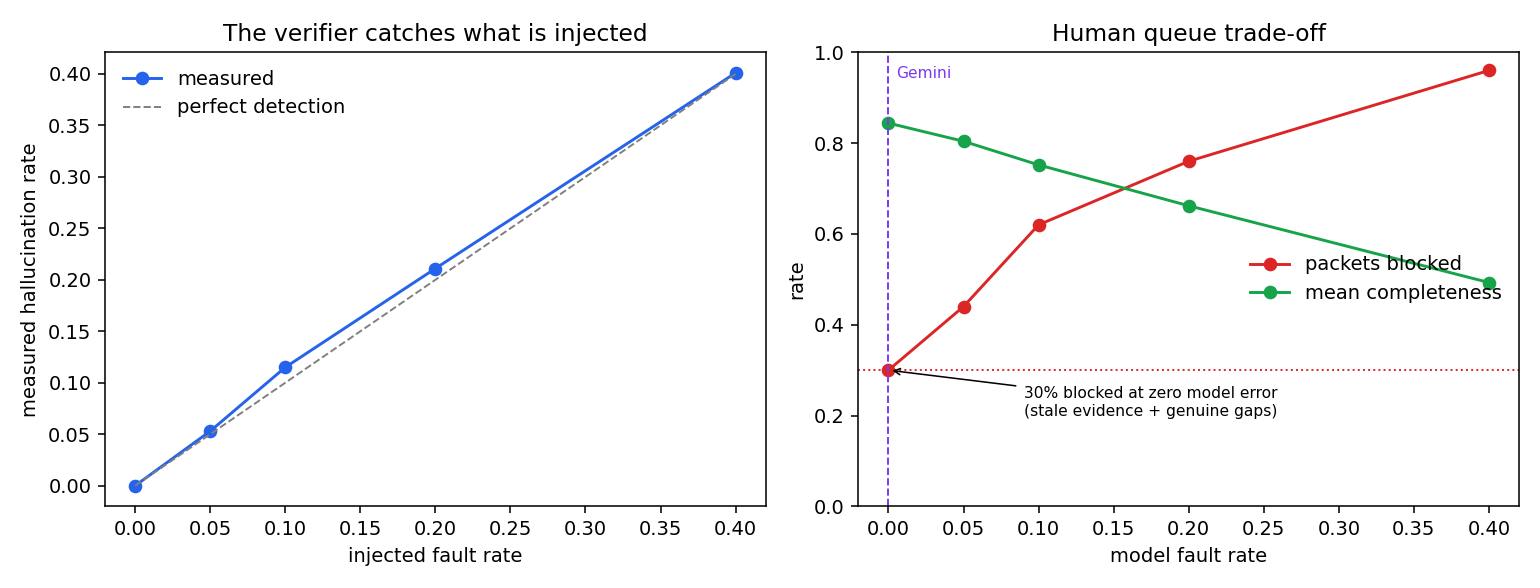
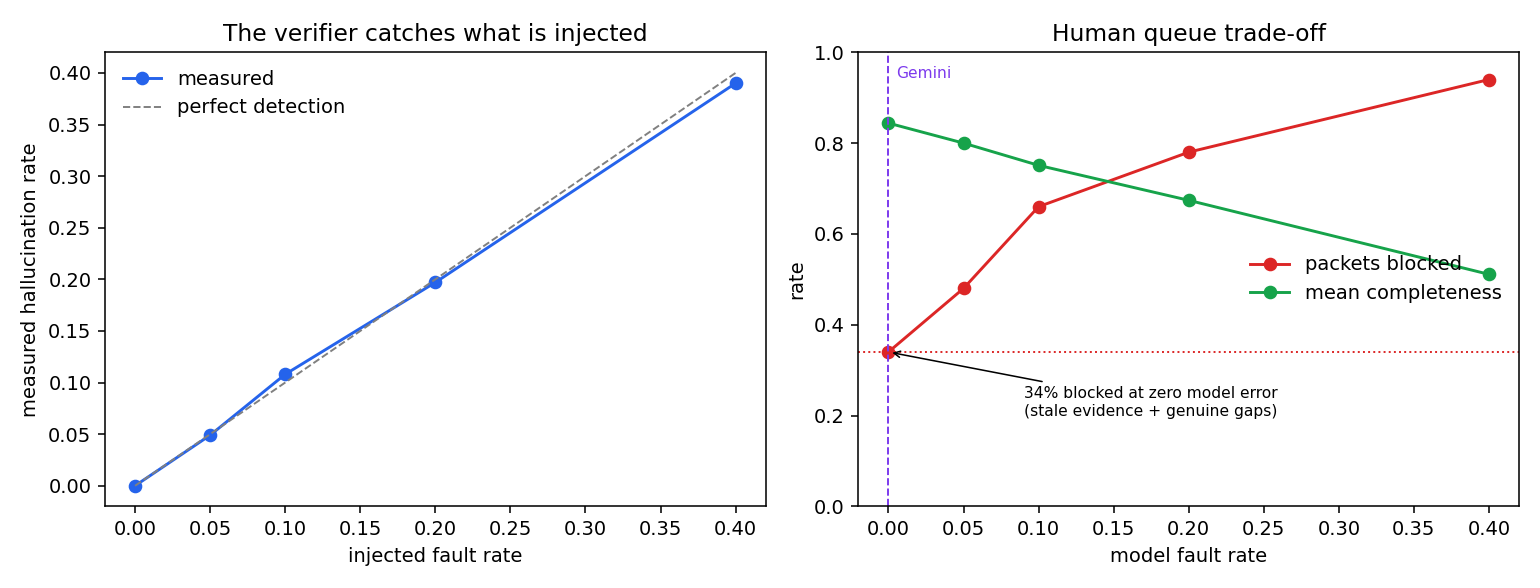
Rerun all sweeps against resampled amounts: net Rs 529,555, queue intercept 0.34, contest-all negative in 3 of 4

diff --git a/agent/queue_chart.py b/agent/queue_chart.py
@@ -23,9 +23,9 @@ import matplotlib.pyplot as plt
 HERE = os.path.dirname(os.path.abspath(__file__))
 
 injected     = [0.00, 0.05, 0.10, 0.20, 0.40]
-measured     = [0.000, 0.053, 0.115, 0.211, 0.401]
-blocked      = [0.30, 0.44, 0.62, 0.76, 0.96]
-completeness = [0.844, 0.804, 0.752, 0.662, 0.493]
+measured     = [0.000, 0.049, 0.108, 0.197, 0.390]
+blocked      = [0.34, 0.48, 0.66, 0.78, 0.94]
+completeness = [0.844, 0.800, 0.751, 0.674, 0.511]
 
 GEMINI_MEASURED = 0.000   # 17 claims over 5 disputes; update after the 100-run
 
